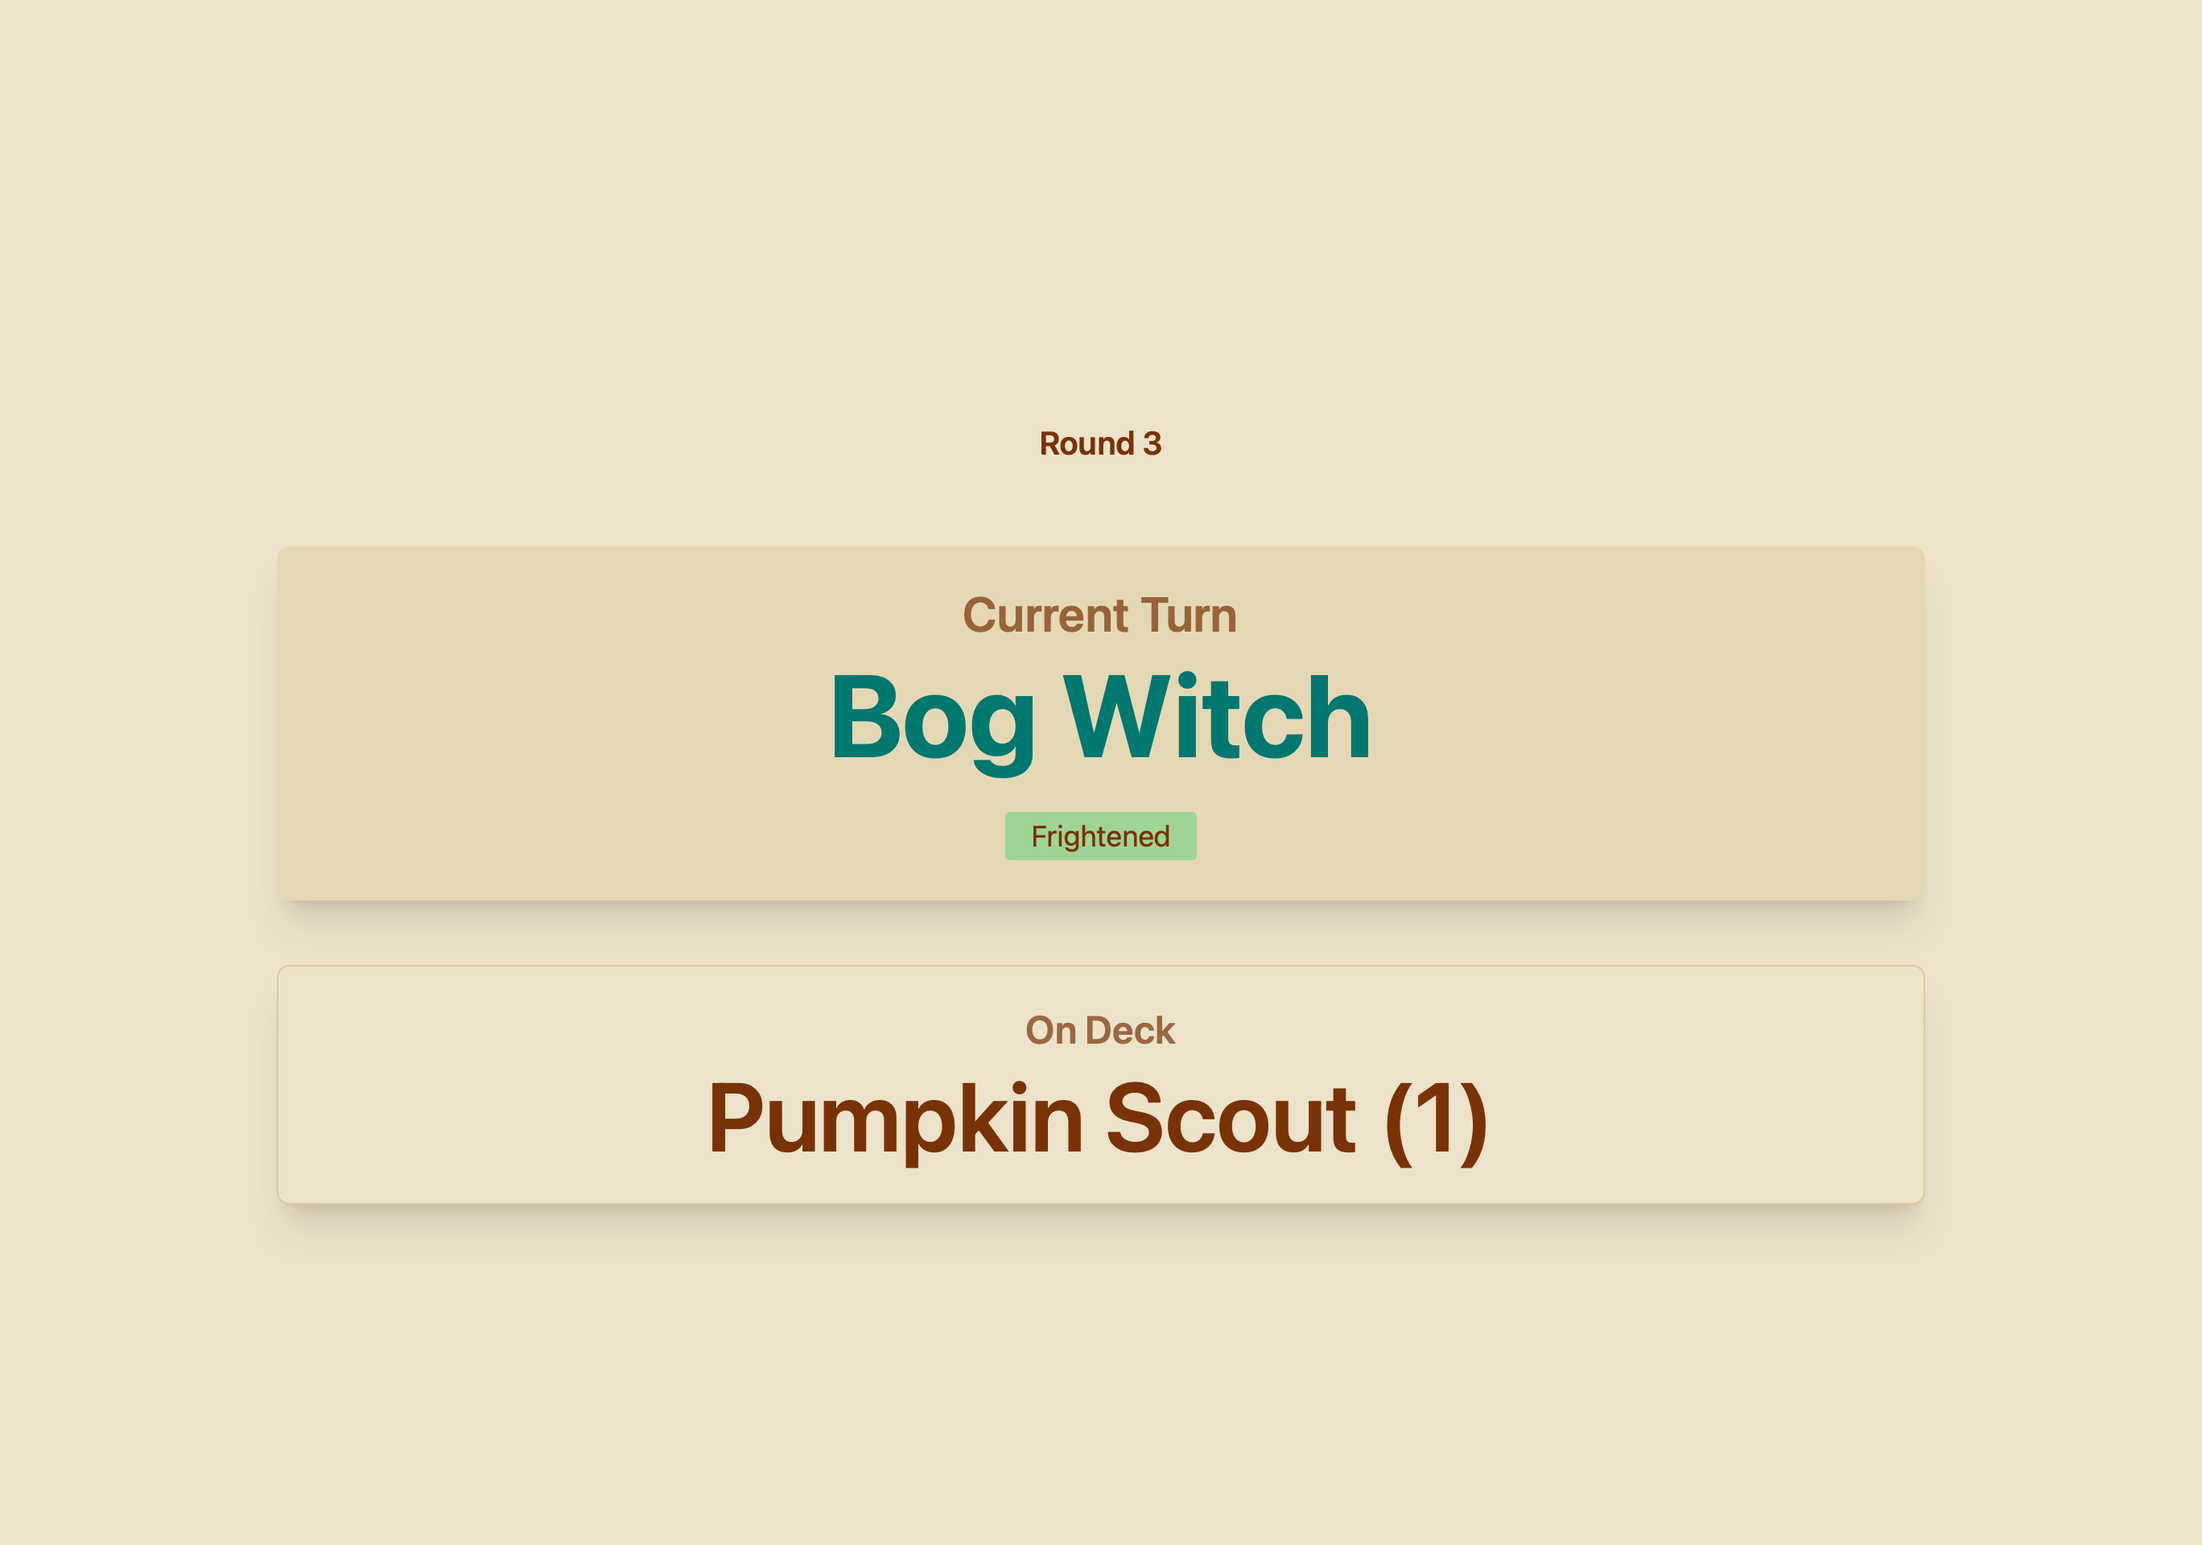
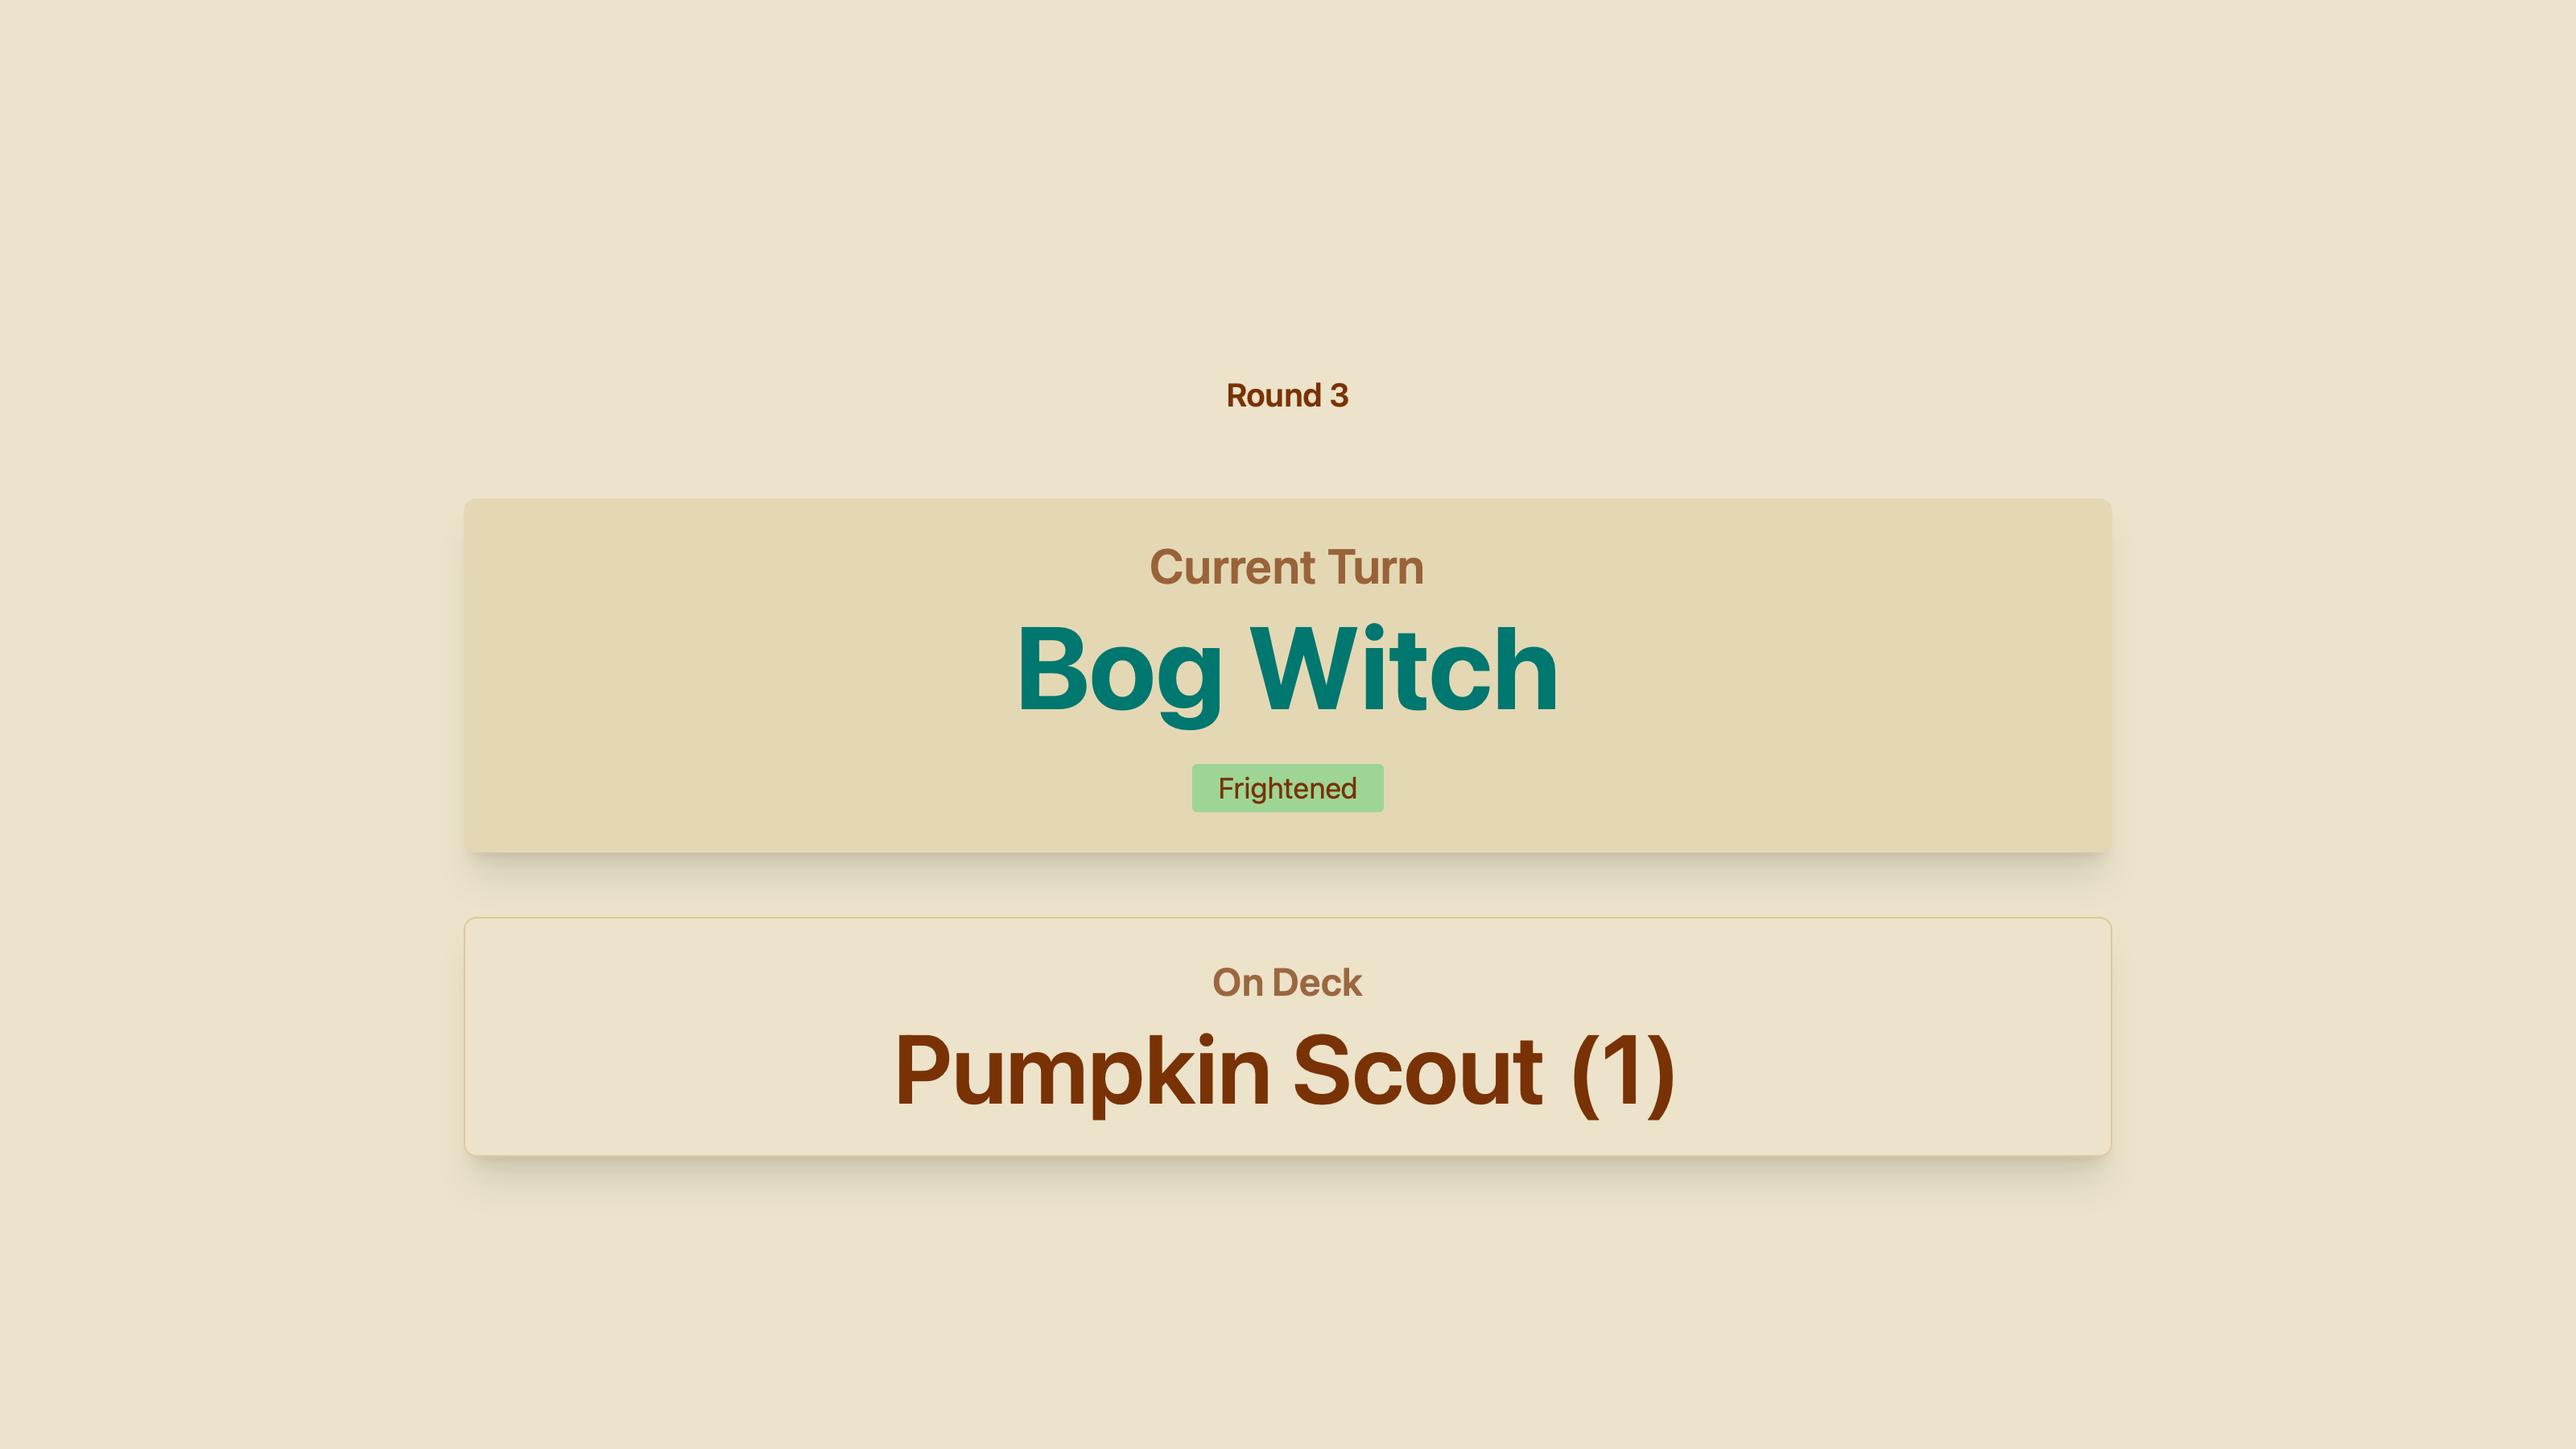
Update docs screenshots to 16:9

diff --git a/scripts/generate-doc-screenshots.swift b/scripts/generate-doc-screenshots.swift
@@ -143,8 +143,8 @@ final class ScreenshotCoordinator {
     private let baseURL = URL(string: "http://127.0.0.1:4173/init-tracker/")!
     private let docsDirectory: URL
     private let dataStore = WKWebsiteDataStore.default()
-    private let splitSize = CGSize(width: 864, height: 980)
-    private let onDeckSize = CGSize(width: 1368, height: 960)
+    private let splitSize = CGSize(width: 1600, height: 900)
+    private let onDeckSize = CGSize(width: 1600, height: 900)
     private let finish: (Result<Void, Error>) -> Void
 
     init(docsDirectory: URL, finish: @escaping (Result<Void, Error>) -> Void) {
